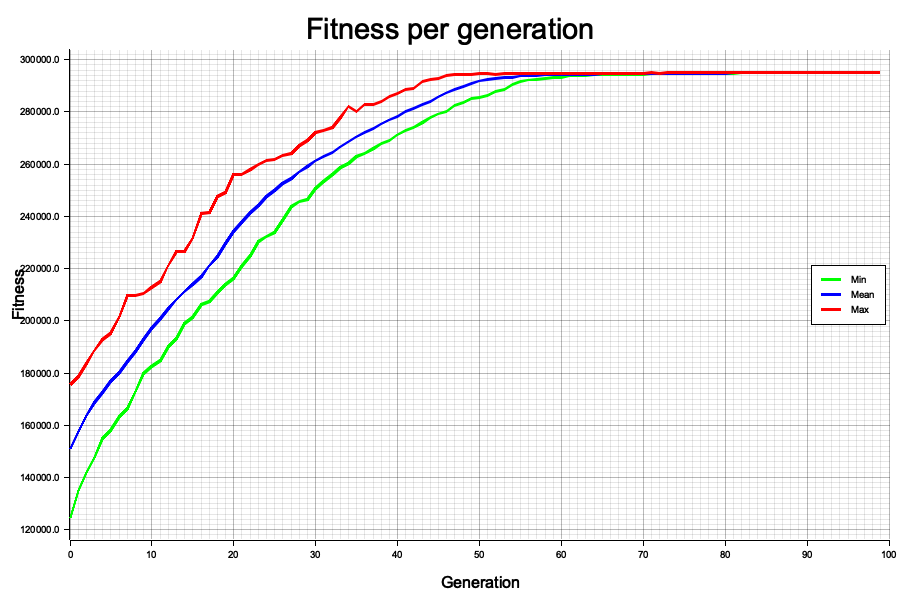
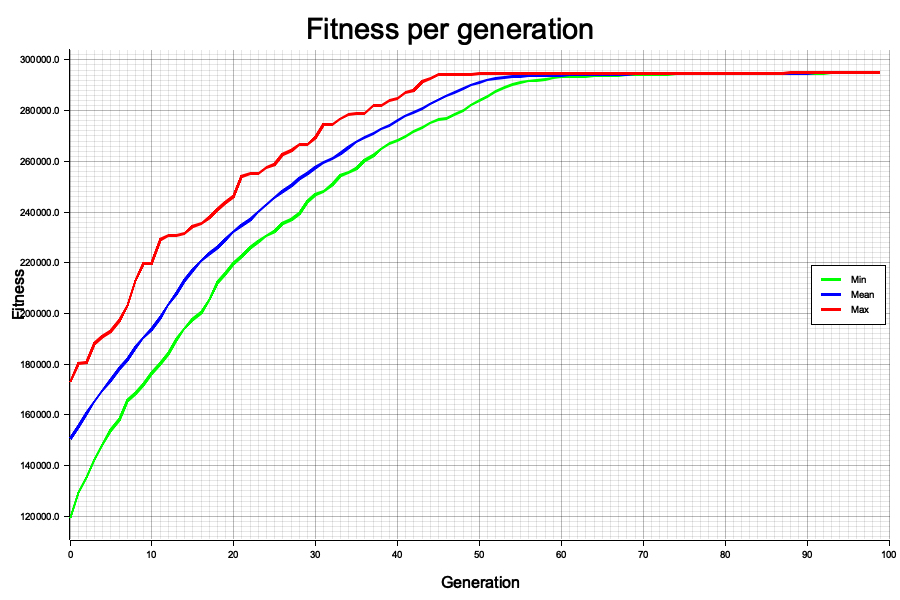
:sparkles: Updated the survival selection; Added hamming distance calculations

Changed region(s): [[0.0, 0.12, 0.9956, 0.9]]

diff --git a/src/main.rs b/src/main.rs
@@ -182,11 +182,44 @@ impl GA {
         }
     }
 
-    fn survival_selection(&self, parent: &Individual, child: &Individual) -> Individual {
+    fn hamming_distance(&self, individual1: &Individual, individual2: &Individual) -> usize {
+        individual1.genes.iter().zip(individual2.genes.iter()).filter(|(a, b)| a != b).count()
+    }
+
+    fn survival_selection(&self, parent1: &Individual, parent2: &Individual, child1: &Individual, child2: &Individual) -> (Individual, Individual) {
+        let dist_p1_c1 = self.hamming_distance(parent1, child1);
+        let dist_p1_c2 = self.hamming_distance(parent1, child2);
+        
         if self.use_deterministic {
-            self.deterministic_crowding(parent, child)
+            // Deterministic crowding: select based on hamming distance
+            if dist_p1_c1 < dist_p1_c2 {
+                (self.deterministic_crowding(parent1, child1), self.deterministic_crowding(parent2, child2))
+            } else if dist_p1_c1 > dist_p1_c2 {
+                (self.deterministic_crowding(parent1, child2), self.deterministic_crowding(parent2, child1))
+            } else {
+                // Equal distance: randomly choose
+                let mut rng = rand::thread_rng();
+                if rng.gen_bool(0.5) {
+                    (self.deterministic_crowding(parent1, child1), self.deterministic_crowding(parent2, child2))
+                } else {
+                    (self.deterministic_crowding(parent1, child2), self.deterministic_crowding(parent2, child1))
+                }
+            }
         } else {
-            self.probabilistic_crowding(parent, child)
+            // Probabilistic crowding: select based on hamming distance
+            if dist_p1_c1 < dist_p1_c2 {
+                (self.probabilistic_crowding(parent1, child1), self.probabilistic_crowding(parent2, child2))
+            } else if dist_p1_c1 > dist_p1_c2 {
+                (self.probabilistic_crowding(parent1, child2), self.probabilistic_crowding(parent2, child1))
+            } else {
+                // Equal distance: randomly choose
+                let mut rng = rand::thread_rng();
+                if rng.gen_bool(0.5) {
+                    (self.probabilistic_crowding(parent1, child1), self.probabilistic_crowding(parent2, child2))
+                } else {
+                    (self.probabilistic_crowding(parent1, child2), self.probabilistic_crowding(parent2, child1))
+                }
+            }
         }
     }
 
@@ -200,8 +233,7 @@ impl GA {
                 let ((parent1, mut child1), (parent2, mut child2)) = self.create_children();
                 child1.fitness = child1.fitness(&self.items);
                 child2.fitness = child2.fitness(&self.items);
-                let survivor1 = self.survival_selection(&parent1, &child1);
-                let survivor2 = self.survival_selection(&parent2, &child2);
+                let (survivor1, survivor2) = self.survival_selection(&parent1, &parent2, &child1, &child2);
                 new_population.push(survivor1);
                 new_population.push(survivor2);
             }
